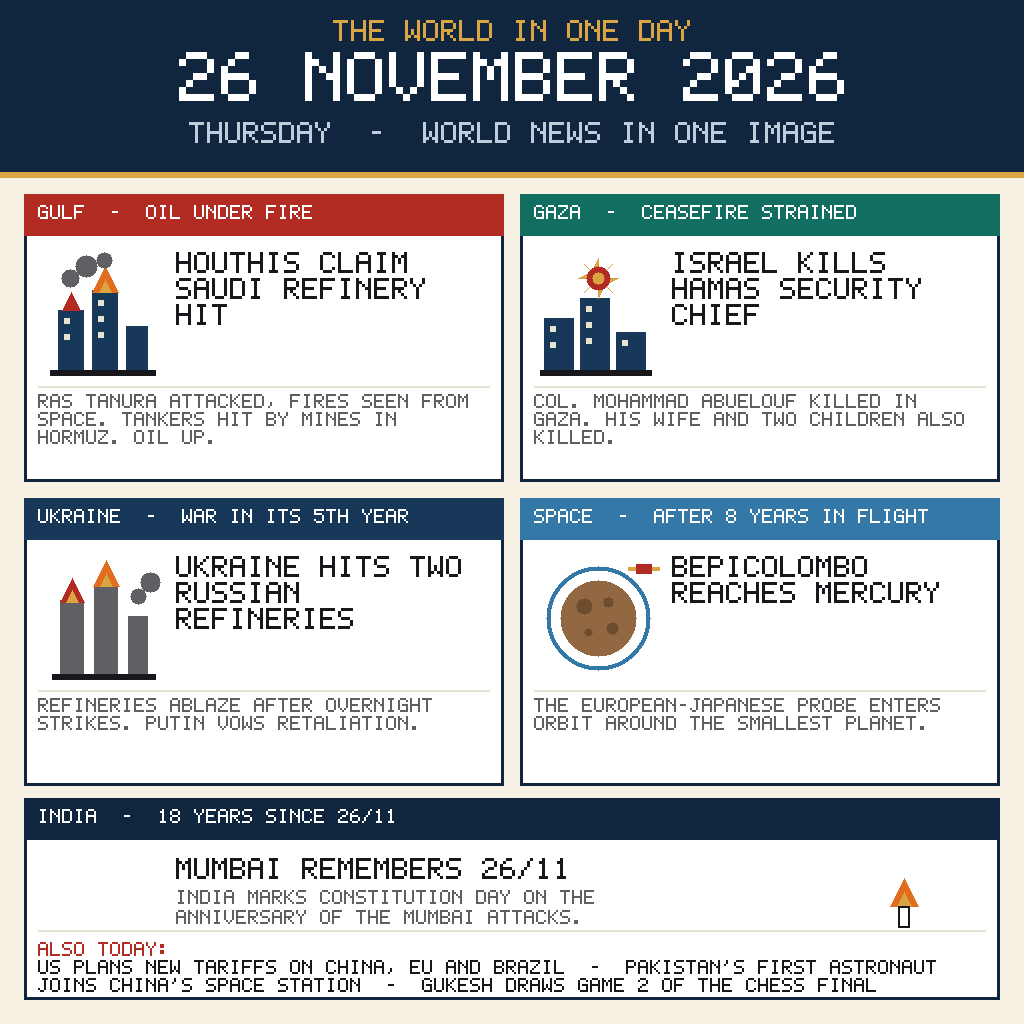
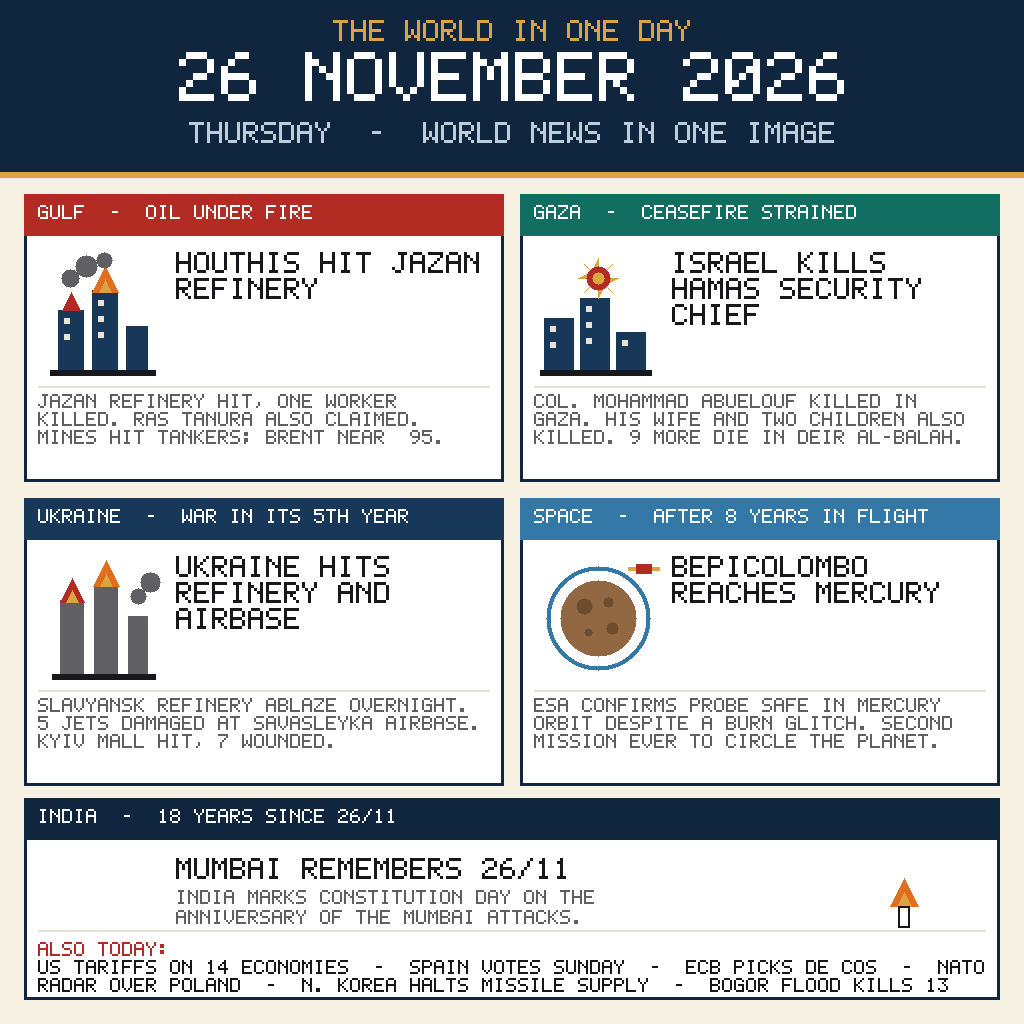
news-image-20261126: final full-day version (Jazan, Deir al-Balah, Slavyansk, ESA confirmation)

diff --git a/main.py b/main.py
@@ -7,18 +7,20 @@ and a hand-rolled PNG encoder (zlib + struct). No network, no random
 numbers, no clock: two runs write identical bytes.
 
 Stories (all reported on 26 November 2026, cross-checked against the
-morning wires and digests dated that day):
-  1. Gulf: Houthis claim a strike on Saudi Arabia's Ras Tanura refinery;
-     tankers hit by mines in the Strait of Hormuz; oil prices jump.
-  2. Gaza: Israel kills Hamas interior-security chief Mohammad Abuelouf;
-     the ceasefire is under strain.
-  3. Ukraine: Ukrainian strikes set two Russian oil refineries ablaze
-     overnight; Putin vows retaliation.
-  4. Space: BepiColombo enters orbit around Mercury after an 8-year trip.
+full day's wires and digests dated that day):
+  1. Gulf: Houthis hit the Jazan refinery (one worker killed) and claim
+     Ras Tanura; tankers hit by mines in the Strait of Hormuz; Brent
+     near $95.
+  2. Gaza: Israel kills Hamas interior-security chief Mohammad Abuelouf
+     and his family; 9 more die in Deir al-Balah; ceasefire strained.
+  3. Ukraine: Ukrainian drones set the Slavyansk refinery ablaze and
+     damage 5 jets at Savasleyka airbase; Russia hits a Kyiv mall.
+  4. Space: ESA confirms BepiColombo safe in Mercury orbit after an
+     8-year trip, despite a shortened braking burn.
   5. India: 18th anniversary of the 26/11 Mumbai attacks, on
-     Constitution Day. Plus: US tariff plan, Pakistan's first astronaut
-     to China's space station, Gukesh's Game 2 draw in the chess title
-     match.
+     Constitution Day. Plus: US tariff plan, Spain snap vote, ECB picks
+     de Cos, NATO radar over Poland, N. Korea missile-supply halt,
+     Bogor mine flood.
 """
 
 import os
@@ -342,20 +344,20 @@ def draw_page(px):
     px0, py0 = 24, 194
     pw, ph, gap = 480, 288, 16
     panel(px, px0, py0, pw, ph, "GULF  -  OIL UNDER FIRE", RED, "gulf",
-          "HOUTHIS CLAIM SAUDI REFINERY HIT",
-          "RAS TANURA ATTACKED, FIRES SEEN FROM SPACE. TANKERS HIT BY MINES IN HORMUZ. OIL UP.")
+          "HOUTHIS HIT JAZAN REFINERY",
+          "JAZAN REFINERY HIT, ONE WORKER KILLED. RAS TANURA ALSO CLAIMED. MINES HIT TANKERS; BRENT NEAR $95.")
     panel(px, px0 + pw + gap, py0, pw, ph, "GAZA  -  CEASEFIRE STRAINED",
           TEAL, "gaza",
           "ISRAEL KILLS HAMAS SECURITY CHIEF",
-          "COL. MOHAMMAD ABUELOUF KILLED IN GAZA. HIS WIFE AND TWO CHILDREN ALSO KILLED.")
+          "COL. MOHAMMAD ABUELOUF KILLED IN GAZA. HIS WIFE AND TWO CHILDREN ALSO KILLED. 9 MORE DIE IN DEIR AL-BALAH.")
     panel(px, px0, py0 + ph + gap, pw, ph, "UKRAINE  -  WAR IN ITS 5TH YEAR",
           NAVY2, "ukraine",
-          "UKRAINE HITS TWO RUSSIAN REFINERIES",
-          "REFINERIES ABLAZE AFTER OVERNIGHT STRIKES. PUTIN VOWS RETALIATION.")
+          "UKRAINE HITS REFINERY AND AIRBASE",
+          "SLAVYANSK REFINERY ABLAZE OVERNIGHT. 5 JETS DAMAGED AT SAVASLEYKA AIRBASE. KYIV MALL HIT, 7 WOUNDED.")
     panel(px, px0 + pw + gap, py0 + ph + gap, pw, ph,
           "SPACE  -  AFTER 8 YEARS IN FLIGHT", SKY, "mercury",
           "BEPICOLOMBO REACHES MERCURY",
-          "THE EUROPEAN-JAPANESE PROBE ENTERS ORBIT AROUND THE SMALLEST PLANET.")
+          "ESA CONFIRMS PROBE SAFE IN MERCURY ORBIT DESPITE A BURN GLITCH. SECOND MISSION EVER TO CIRCLE THE PLANET.")
 
     # Bottom band: India + also-today.
     bx, by, bw, bh = 24, 798, 976, 202
@@ -375,9 +377,11 @@ def draw_page(px):
     draw_text(px, tx, by + 112,
               "ANNIVERSARY OF THE MUMBAI ATTACKS.", GREY, 2)
     fill_rect(px, bx + 14, by + 132, bw - 28, 2, LIGHT)
-    also = ("US PLANS NEW TARIFFS ON CHINA, EU AND BRAZIL  -  "
-            "PAKISTAN'S FIRST ASTRONAUT JOINS CHINA'S SPACE STATION  -  "
-            "GUKESH DRAWS GAME 2 OF THE CHESS FINAL")
+    also = ("US TARIFFS ON 14 ECONOMIES  -  "
+            "SPAIN VOTES SUNDAY  -  ECB PICKS DE COS  -  "
+            "NATO RADAR OVER POLAND  -  "
+            "N. KOREA HALTS MISSILE SUPPLY  -  "
+            "BOGOR FLOOD KILLS 13")
     draw_text(px, bx + 14, by + 144, "ALSO TODAY:", RED, 2)
     iy = by + 162
     for line in wrap_text(also, 2, bw - 28)[:2]:
